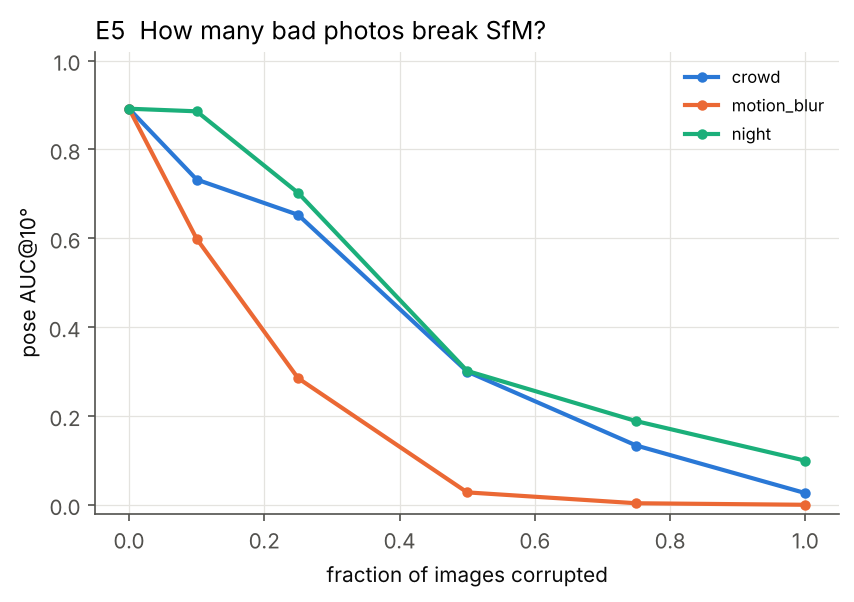
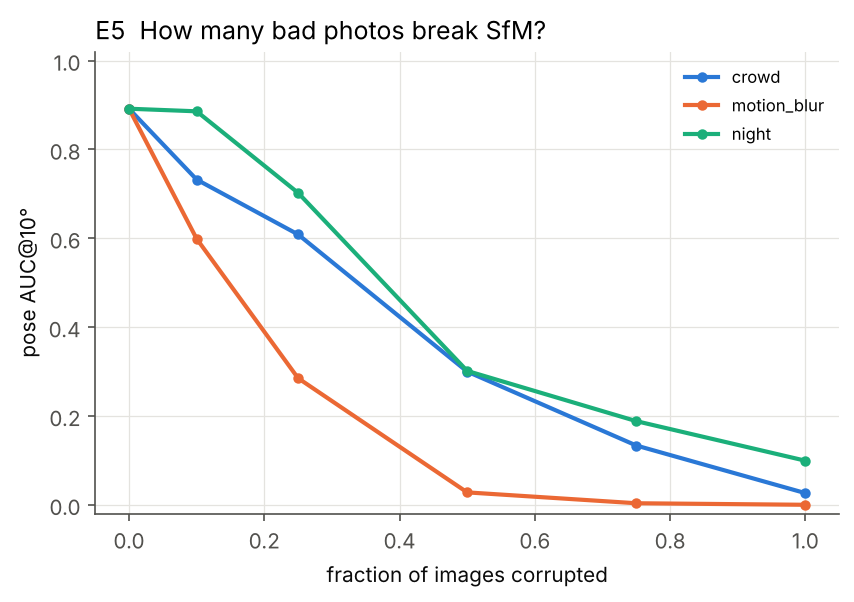
Seed 1 complete for both scenes
Claude-Session: https://claude.ai/code/session_01DwFUuxyVwkhujN2CBgQS9g

Changed region(s): [[0.2436, 0.299, 0.4567, 0.5083], [0.4567, 0.5083, 0.5176, 0.598]]

diff --git a/results/summary.md b/results/summary.md
@@ -120,7 +120,7 @@ Metric: pose AUC@10° over all input image pairs (unregistered = failure) and re
 |---|---|---|---|---|
 | clean | 1.000 | 6 | 0.921 [0.82, 0.98] | 0.977 [0.93, 1.00] |
 | crowd | 0.100 | 5 | 0.732 [0.55, 0.91] | 0.890 [0.77, 1.00] |
-| crowd | 0.250 | 4 | 0.653 [0.55, 0.82] | 1.000 [1.00, 1.00] |
+| crowd | 0.250 | 5 | 0.609 [0.49, 0.76] | 0.935 [0.81, 1.00] |
 | crowd | 0.500 | 4 | 0.300 [0.16, 0.44] | 0.870 [0.73, 0.99] |
 | crowd | 0.750 | 4 | 0.133 [0.06, 0.21] | 0.958 [0.90, 0.99] |
 | crowd | 1.000 | 4 | 0.026 [0.01, 0.04] | 0.994 [0.98, 1.00] |
